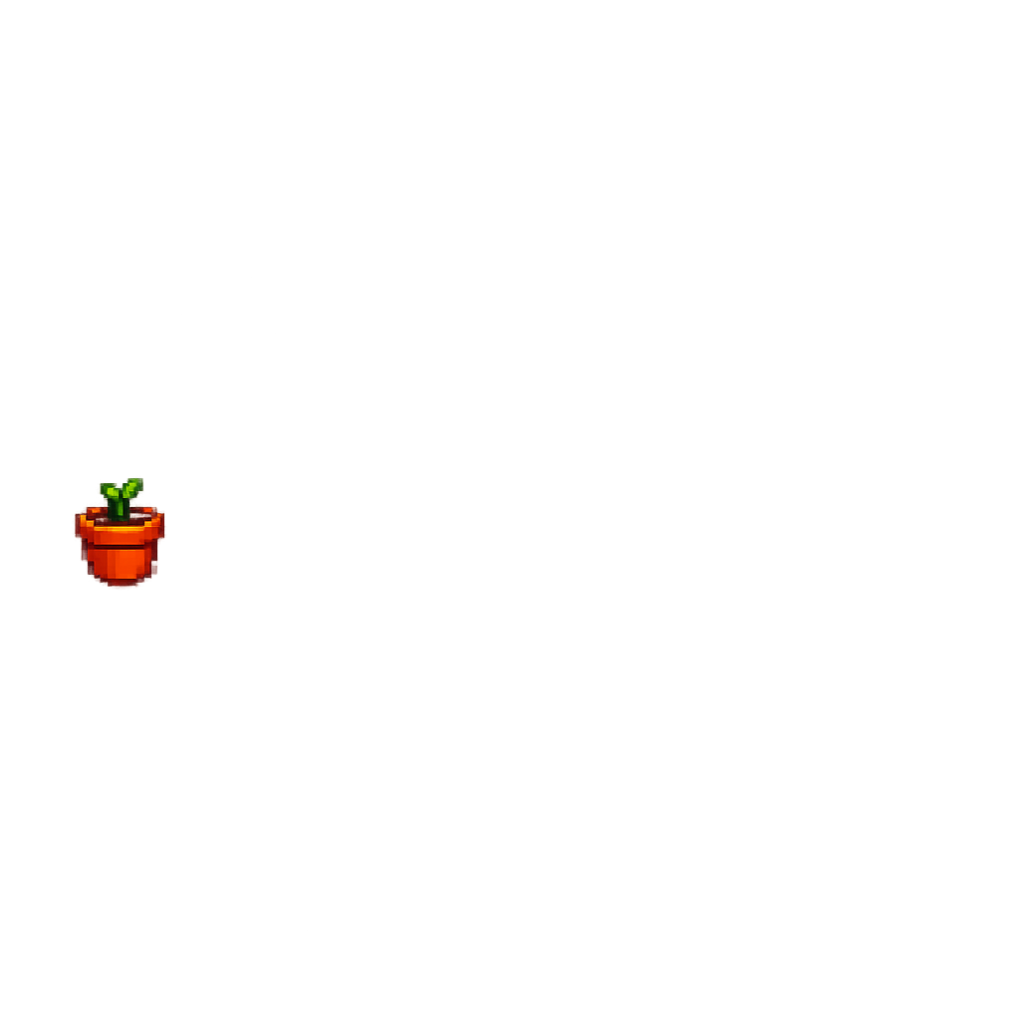
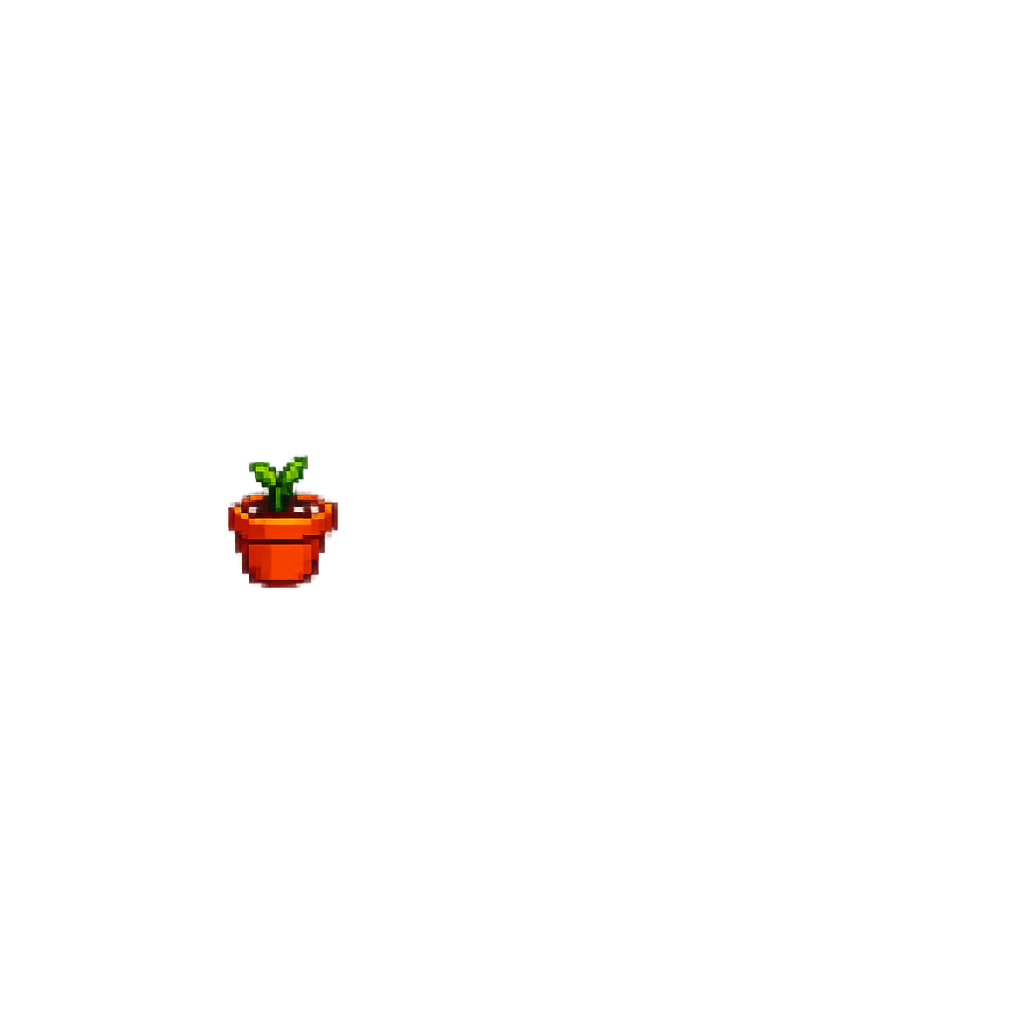
implemented the use of _screen_width and _screen_height when settings the postition of the plants

Changed region(s): [[0.2127, 0.4255, 0.3343, 0.5775], [0.0608, 0.4559, 0.1824, 0.5775]]

diff --git a/grow_a_plant/Start_texture_screen.cs b/grow_a_plant/Start_texture_screen.cs
@@ -131,24 +131,16 @@ namespace grow_a_plant
             // plants
 
             // plant growth stage 1
-            Texture_groups.Add("plant_growth_stage_1", new Texture_group((int)(_screen_width * 0.334), (int)(_screen_height * 0.292), true));
-            Texture_groups["plant_growth_stage_1"].Image_rectangles.Add(new Image_rectangle(0, 0, (int)(_screen_width * 0.334), (int)(_screen_height * 0.292), _content.Load<Texture2D>("picture's\\firststage")));
+            Texture_groups.Add("plant_growth_stage_1", new Texture_group((int)(_screen_width * 0.321), (int)(-1 * _screen_height * 0.230), true));
+            Texture_groups["plant_growth_stage_1"].Image_rectangles.Add(new Image_rectangle(0, 0, (int)(_screen_width * 0.668), (int)(_screen_height * 1.200), _content.Load<Texture2D>("picture's\\firststage"))); // the names of image might be a bit confusing, the first and second stage images were pretty much the same
 
             // plant growth stage 2
-            Texture_groups.Add("plant_growth_stage_2", new Texture_group(470, 145, false));
-            Texture_groups["plant_growth_stage_2"].Image_rectangles.Add(new Image_rectangle(0, 0, 453, 453, _content.Load<Texture2D>("picture's\\secondstage")));
+            Texture_groups.Add("plant_growth_stage_2", new Texture_group((int)(_screen_width * 0.219), (int)(-1 * _screen_height * 0.054), false));
+            Texture_groups["plant_growth_stage_2"].Image_rectangles.Add(new Image_rectangle(0, 0, (int)(_screen_width * 0.450), (int)(_screen_height * 0.900), _content.Load<Texture2D>("picture's\\secondstage"))); // the names of image might be a bit confusing, the third and fourth stage images were pretty much the same
 
             // plant growth stage 3
-            Texture_groups.Add("plant_growth_stage_3", new Texture_group(470, 145, false));
-            Texture_groups["plant_growth_stage_3"].Image_rectangles.Add(new Image_rectangle(0, 0, 453, 453, _content.Load<Texture2D>("picture's\\thirdstage")));
-
-            // plant growth stage 4
-            Texture_groups.Add("plant_growth_stage_4", new Texture_group(470, 145, false));
-            Texture_groups["plant_growth_stage_4"].Image_rectangles.Add(new Image_rectangle(0, 0, 453, 453, _content.Load<Texture2D>("picture's\\fourthstage")));
-
-            // plant growth stage 5
-            Texture_groups.Add("plant_growth_stage_5", new Texture_group(470, 145, false));
-            Texture_groups["plant_growth_stage_5"].Image_rectangles.Add(new Image_rectangle(0, 0, 453, 453, _content.Load<Texture2D>("picture's\\fifthstage")));
+            Texture_groups.Add("plant_growth_stage_3", new Texture_group((int)(_screen_width * 0.165), (int)(-1 * _screen_height * 0.020), false));
+            Texture_groups["plant_growth_stage_3"].Image_rectangles.Add(new Image_rectangle(0, 0, (int)(_screen_width * 0.403), (int)(_screen_height * 0.833), _content.Load<Texture2D>("picture's\\thirdstage")));
 
 
             // add more texture groups in the future, like the plant and the water and fertilize bars
@@ -231,40 +223,18 @@ namespace grow_a_plant
                 Texture_groups["plant_growth_stage_1"].Is_visible = true;
                 Texture_groups["plant_growth_stage_2"].Is_visible = false;
                 Texture_groups["plant_growth_stage_3"].Is_visible = false;
-                Texture_groups["plant_growth_stage_4"].Is_visible = false;
-                Texture_groups["plant_growth_stage_5"].Is_visible = false;
             }
             else if (growth_stage == 2)
             {
                 Texture_groups["plant_growth_stage_1"].Is_visible = false;
                 Texture_groups["plant_growth_stage_2"].Is_visible = true;
                 Texture_groups["plant_growth_stage_3"].Is_visible = false;
-                Texture_groups["plant_growth_stage_4"].Is_visible = false;
-                Texture_groups["plant_growth_stage_5"].Is_visible = false;
             }
-            else if (growth_stage == 3)
+            else
             {
                 Texture_groups["plant_growth_stage_1"].Is_visible = false;
                 Texture_groups["plant_growth_stage_2"].Is_visible = false;
                 Texture_groups["plant_growth_stage_3"].Is_visible = true;
-                Texture_groups["plant_growth_stage_4"].Is_visible = false;
-                Texture_groups["plant_growth_stage_5"].Is_visible = false;
-            }
-            else if (growth_stage == 4)
-            {
-                Texture_groups["plant_growth_stage_1"].Is_visible = false;
-                Texture_groups["plant_growth_stage_2"].Is_visible = false;
-                Texture_groups["plant_growth_stage_3"].Is_visible = false;
-                Texture_groups["plant_growth_stage_4"].Is_visible = true;
-                Texture_groups["plant_growth_stage_5"].Is_visible = false;
-            }
-            else if (growth_stage >= 5)
-            {
-                Texture_groups["plant_growth_stage_1"].Is_visible = false;
-                Texture_groups["plant_growth_stage_2"].Is_visible = false;
-                Texture_groups["plant_growth_stage_3"].Is_visible = false;
-                Texture_groups["plant_growth_stage_4"].Is_visible = false;
-                Texture_groups["plant_growth_stage_5"].Is_visible = true;
             }
         }
     }